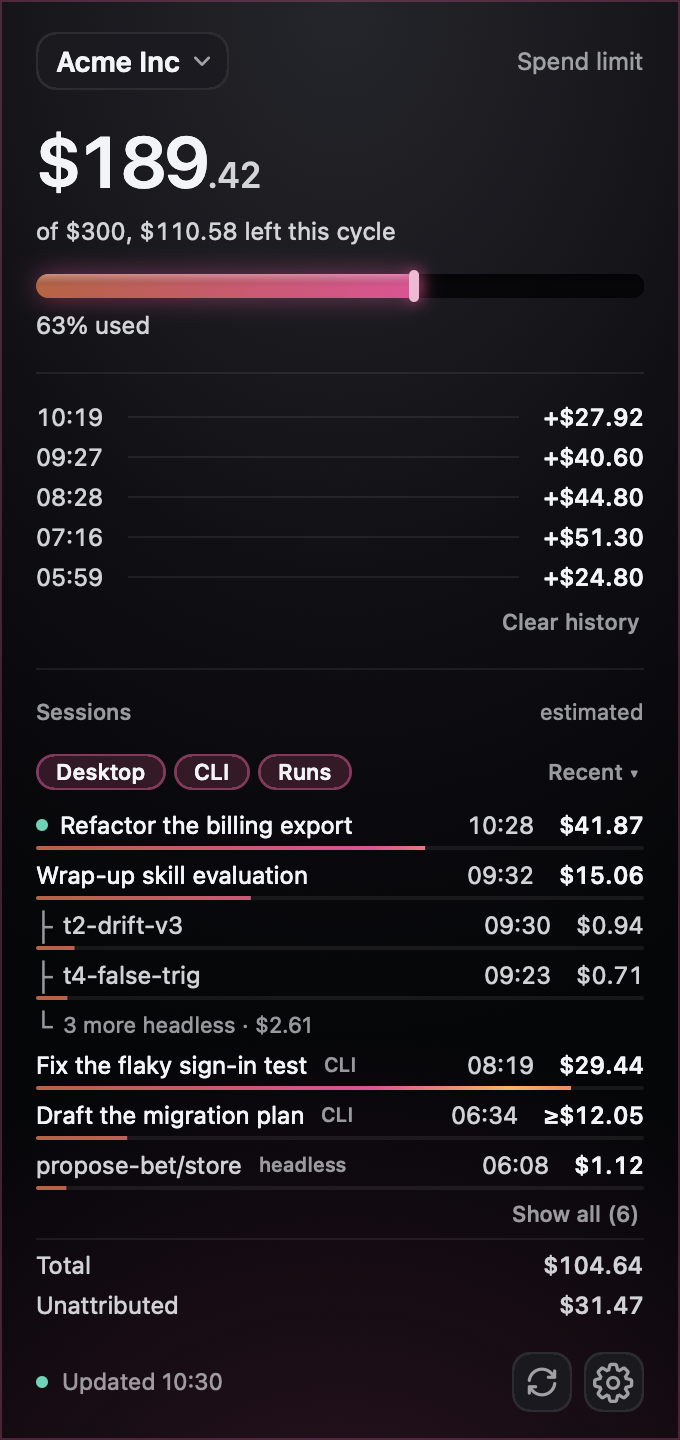
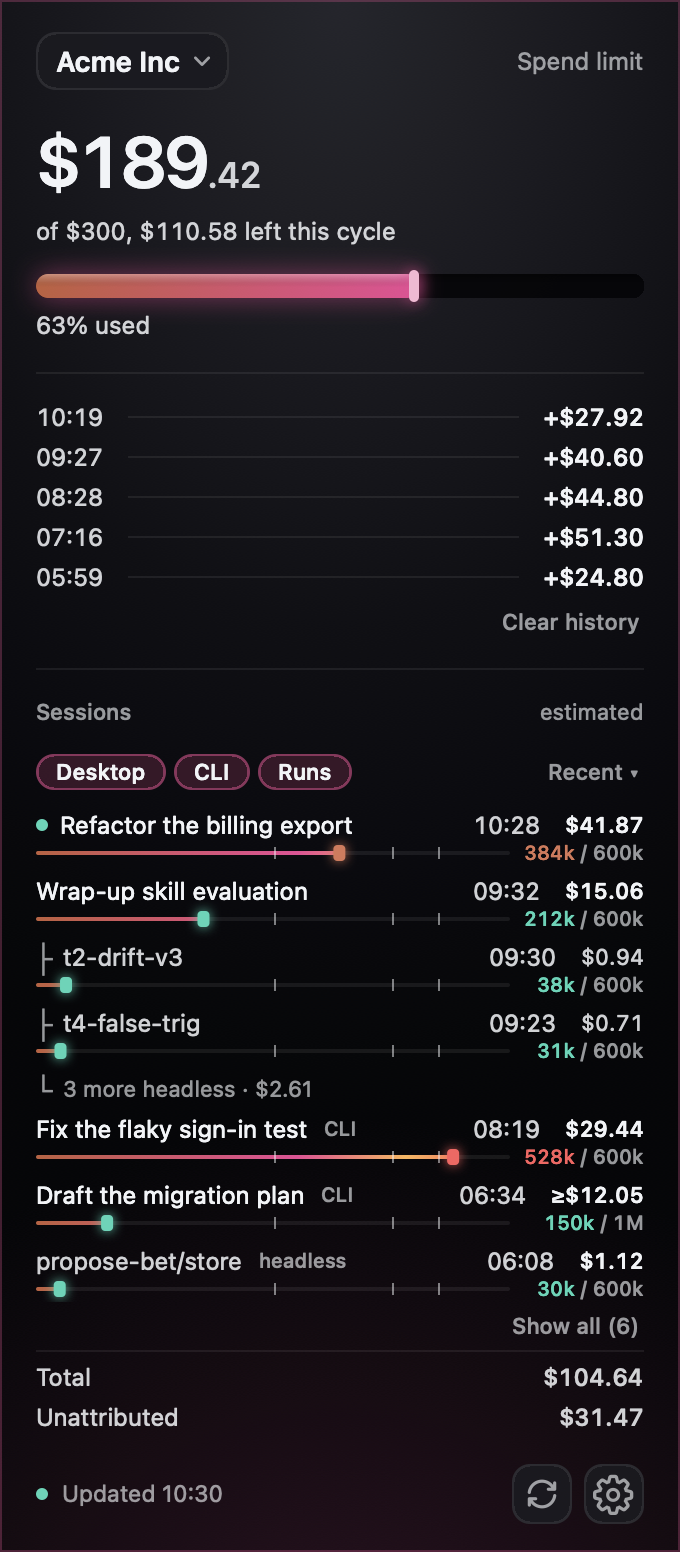
chore(release): 4.1.0 — context figures in the panel screenshots

diff --git a/index.html b/index.html
@@ -9,7 +9,7 @@
 <meta property="og:description" content="Your claude.ai usage, in the menu bar.">
 <meta property="og:type" content="website">
 <meta property="og:url" content="https://tkachenkobogdan.github.io/norn/">
-<link rel="icon" href="icon-128.png?v=4.0.0" sizes="128x128">
+<link rel="icon" href="icon-128.png?v=4.1.0" sizes="128x128">
 <style>
   :root {
     /* Onyx: the ball's shell, lit by its magenta. Clay is the die's alone and
@@ -307,8 +307,8 @@
   <!-- The Norn herself: stills of the app's own shader ball (SPENDBAR_BALL_STILL), resting and with her
        runes lit. The same ball that comes down from the menu bar. -->
   <div class="drop"><div class="orb" role="img" aria-label="The Norn: black glass, a clay die and a ring of runes">
-    <img src="ball@2x.png?v=4.0.0" width="1140" height="1140" alt="" fetchpriority="high">
-    <img class="lit" src="ball-lit@2x.png?v=4.0.0" width="1140" height="1140" alt="">
+    <img src="ball@2x.png?v=4.1.0" width="1140" height="1140" alt="" fetchpriority="high">
+    <img class="lit" src="ball-lit@2x.png?v=4.1.0" width="1140" height="1140" alt="">
   </div></div>
 
   <h1>Norn</h1>
@@ -356,7 +356,7 @@
 
           <!-- this app. It sits here, just left of the clock. -->
           <span class="ours">
-            <span id="barMark" class="barmark"><img data-shell src="ball@2x.png?v=4.0.0" width="1140" height="1140" alt=""><img class="glow" src="ball-lit@2x.png?v=4.0.0" width="1140" height="1140" alt=""><i class="ring"></i></span>
+            <span id="barMark" class="barmark"><img data-shell src="ball@2x.png?v=4.1.0" width="1140" height="1140" alt=""><img class="glow" src="ball-lit@2x.png?v=4.1.0" width="1140" height="1140" alt=""><i class="ring"></i></span>
             <span>38%</span>
           </span>
 
@@ -376,7 +376,7 @@
     </a>
     <a class="btn btn-ghost" href="#homebrew">Install with Homebrew</a>
   </p>
-  <p class="meta">Version 4.0.0 · macOS 14 or later · Apple Silicon · free</p>
+  <p class="meta">Version 4.1.0 · macOS 14 or later · Apple Silicon · free</p>
   <a class="guide-link" href="guide.html">
     <span><b>First time setting it up?</b>
       <span>The setup guide walks you through it with the real screens, in five minutes.</span></span>
@@ -392,12 +392,12 @@
   <h2>She comes to you</h2>
   <p class="lede">The Norn is a proactive helper. She watches your Claude sessions in the background and warns you before a problem costs you: a bloated context, a thread left waiting, a limit about to run out. You don't have to check. She comes down from the menu bar and tells you.</p>
   <div class="twins">
-    <figure><img src="ball@2x.png?v=4.0.0" width="1140" height="1140" loading="lazy" alt="The Norn">
+    <figure><img src="ball@2x.png?v=4.1.0" width="1140" height="1140" loading="lazy" alt="The Norn">
       <div class="shell" role="radiogroup" aria-label="Appearance">
-        <button role="radio" aria-checked="true" data-src="ball@2x.png?v=4.0.0">Onyx</button>
-        <button role="radio" aria-checked="false" data-src="ball-pearl@2x.png?v=4.0.0">Pearl</button>
+        <button role="radio" aria-checked="true" data-src="ball@2x.png?v=4.1.0">Onyx</button>
+        <button role="radio" aria-checked="false" data-src="ball-pearl@2x.png?v=4.1.0">Pearl</button>
       </div></figure>
-    <link rel="preload" as="image" href="ball-pearl@2x.png?v=4.0.0">
+    <link rel="preload" as="image" href="ball-pearl@2x.png?v=4.1.0">
   </div>
   <div class="norn">
     <ul>
@@ -417,7 +417,7 @@
   <div class="shots">
     <div class="shot">
       <figure>
-        <span class="frame"><img src="popover@2x.png?v=4.0.0" width="680" height="1092" loading="lazy"
+        <span class="frame"><img src="popover@2x.png?v=4.1.0" width="680" height="1108" loading="lazy"
              alt="The panel on a subscription: an organisation picker, then Session 54%,
                   Weekly 28% and Weekly Fable 30%, each with a meter and a reset time,
                   then the Sessions list at API value."></span>
@@ -428,7 +428,7 @@
     </div>
     <div class="shot">
       <figure>
-        <span class="frame"><img src="ledger@2x.png?v=4.0.0" width="680" height="1440" loading="lazy"
+        <span class="frame"><img src="ledger@2x.png?v=4.1.0" width="680" height="1552" loading="lazy"
              alt="The panel on a spend limit: $189.42 of $300, $110.58 left this cycle,
                   63% used, a tape of the five most recent charges, and the Sessions list."></span>
         <figcaption><b>On a spend limit.</b> What you have run up this cycle, what
@@ -445,7 +445,7 @@
   <div class="sessions">
     <div class="shot">
       <figure>
-        <span class="frame"><img src="sessions@2x.png?v=4.0.0" width="680" height="1212" loading="lazy"
+        <span class="frame"><img src="sessions@2x.png?v=4.1.0" width="680" height="1254" loading="lazy"
              alt="The Sessions list with Desktop off, sorted by cost: two terminal sessions,
                   two headless runs, a CLI total, and the part of the bill no session explains."></span>
         <figcaption><b>Desktop off, sorted by cost.</b> The total follows the
@@ -472,7 +472,7 @@
   <div class="sessions">
     <div class="shot">
       <figure>
-        <span class="frame"><img src="menubar@2x.png?v=4.0.0" width="680" height="554" loading="lazy"
+        <span class="frame"><img src="menubar@2x.png?v=4.1.0" width="680" height="554" loading="lazy"
              alt="The Menu bar text screen: Full $189.42 / $300 (today's look, 119 pt),
                   Compact $189 / 300 (91 pt), Minimal $189 (57 pt) and Mark, the mark alone (24 pt)."></span>
         <figcaption><b>Four styles, measured.</b> Each row shows your own reading in
@@ -555,7 +555,7 @@
      already knows your plan and limits. It never asks for, stores or sends a login.</p>
   <div class="shot" style="max-width:340px;margin:0 auto 22px">
     <figure>
-      <span class="frame"><img src="connect@2x.png?v=4.0.0" width="680" height="836" loading="lazy"
+      <span class="frame"><img src="connect@2x.png?v=4.1.0" width="680" height="836" loading="lazy"
            alt="The Connect screen: Norn runs your claude to ask for usage, found two
                 accounts, never reads, stores or sends a login, and never talks to claude.ai."></span>
     </figure>
@@ -582,7 +582,7 @@
   <div class="shots shots-3">
     <div class="shot">
       <figure>
-        <span class="frame"><img src="appearance@2x.png?v=4.0.0" width="680" height="716" loading="lazy"
+        <span class="frame"><img src="appearance@2x.png?v=4.1.0" width="680" height="716" loading="lazy"
              alt="Appearance settings: Theme Auto, Dark or Light; Panel motion Slide, Unfurl or Fade;
                   Menu bar mark Ball with Ring; Menu bar text; Context gauge."></span>
         <figcaption><b>Appearance.</b> Dark or light (Pearl) panel, or follow macOS,
@@ -591,7 +591,7 @@
     </div>
     <div class="shot">
       <figure>
-        <span class="frame"><img src="mark-ball@2x.png?v=4.0.0" width="680" height="798" loading="lazy"
+        <span class="frame"><img src="mark-ball@2x.png?v=4.1.0" width="680" height="798" loading="lazy"
              alt="Menu bar mark: Ball chosen. While Claude works: Ring, Pulse, Die only or Off."></span>
         <figcaption><b>The Norn.</b> While Claude Code works its die turns: with a
           magenta ring, a pulsing glow, on its own, or not at all.</figcaption>
@@ -599,7 +599,7 @@
     </div>
     <div class="shot">
       <figure>
-        <span class="frame"><img src="mark-trine@2x.png?v=4.0.0" width="680" height="888" loading="lazy"
+        <span class="frame"><img src="mark-trine@2x.png?v=4.1.0" width="680" height="888" loading="lazy"
              alt="Menu bar mark: Trine chosen. While Claude works: Chase, Draw, Tumble, Turn or Off."></span>
         <figcaption><b>The Trine.</b> A plain clay triangle for a quieter bar, with
           five ways to move. <i>Off</i> keeps either still and saves battery.</figcaption>
@@ -733,7 +733,7 @@
       else { var names = Object.keys(TAPS); tap = { k: TAPS[names[Math.floor(Math.random() * names.length)]], at: now }; flash = now; }
     }
     f.addEventListener('pointerup', release); f.addEventListener('pointercancel', release);
-    function litOf(src) { return /pearl/.test(src) ? 'ball-pearl-lit@2x.png?v=4.0.0' : 'ball-lit@2x.png?v=4.0.0'; }
+    function litOf(src) { return /pearl/.test(src) ? 'ball-pearl-lit@2x.png?v=4.1.0' : 'ball-lit@2x.png?v=4.1.0'; }
     window.nornFace = function (src) { face.src = src; lit.src = litOf(src);
       var g = document.querySelector('#barMark .glow'); if (g) g.src = litOf(src); };
     document.querySelectorAll('.orb img, .twins img').forEach(function (i) { i.style.visibility = 'hidden'; });
